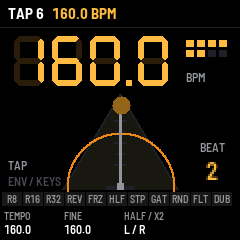
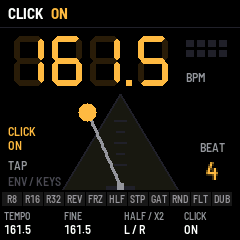
TAP K4: the metronome's click
K4 on the ENV page turns the click on (right) or off (left): a short tick on
every beat while playing (1.5 kHz, 2.4 kHz on the bar's first, ~12 ms),
sample-placed from the engine's step events, dry after the FX chain on both
sides. Kept with SAVE in a spare settings byte (older saves: off). The page
shows CLICK ON / OFF; scenario tap.txt hears it on and off.

Claude-Session: https://claude.ai/code/session_01YWuRNut7ZhYpQRsULF21Ph

diff --git a/app/site/controlmap.html b/app/site/controlmap.html
@@ -194,7 +194,7 @@
       { n: "GROOVE", k: ["SWING", "DRUMS ROUTE", "", ""], strip: "SWING · THE DRUMS' ROUTE", note: "" } ],
       algo: "Break (next bar)", brk: true, presets: "Pattern P1–P16", keys: "slices", notes: [] },
     { id: "env", btn: "ENV", name: "TAP TEMPO", sub: "The whole screen", again: "a tap", subs: [
-      { n: "TAP TEMPO", k: ["TEMPO", "FINE", "HALF / X2", ""], strip: "LED BPM · A METRONOME SWINGING IN TIME · TAPS", note: "the whole screen: no waveform, no tabs" } ],
+      { n: "TAP TEMPO", k: ["TEMPO", "FINE", "HALF / X2", "CLICK"], strip: "LED BPM · A METRONOME SWINGING IN TIME · TAPS", note: "the whole screen: no waveform, no tabs" } ],
       algo: "Break (next bar)", brk: true, presets: "Pattern P1–P16", keys: "taps",
       notes: [["ENV again · any white key", "A tap; the mean of the last eight"], ["K3", "Left halves, right doubles"]] },
     { id: "seq", btn: "SEQ", name: "SEQUENCER", sub: "16 patterns, all the steps", again: "next lane (5)", subs: [

diff --git a/app/app.c b/app/app.c
@@ -51,7 +51,9 @@ typedef struct {
     uint8_t bta_on;                      /* Bluetooth audio out (GLOBAL, third part): on at power-on, the last device
                                           * connected again */
     uint8_t bta_codec;                   /* its SBC coding: 0 joint stereo (fm1-base's), 1 plain stereo */
-    uint8_t rsv[2];
+    uint8_t click;                       /* the metronome's click (TAP K4): 1 on each beat while playing (was a spare
+                                          * byte: older saves have it off) */
+    uint8_t rsv;
     brk_padset_t pads;                   /* the pads' own settings (K1-K4 while a pad is held) */
     brk_keyset_t keys[BRK_KEYS];         /* each white key's loop: length, pitch, start, mode (K1-K4 while held) */
     brk_slicefx_t slx[BRK_KEYS];         /* each slice's own effect and level (a key held, FX: its other layer) */
@@ -231,6 +233,10 @@ static volatile float meter_l, meter_r;  /* the output's peaks as it leaves (aft
                                           * ~20 dB a second: the render writes, the header's meter reads */
 #define LR_TEST_LEN (4u * BRK_SR)
 static volatile uint32_t lr_test;        /* the left / right test (BT AUDIO K3 while streaming): samples left of it */
+static uint16_t click_at[4];             /* the render: this block's metronome clicks (their samples, the bar's first) */
+static uint8_t click_hi[4];
+static uint32_t nclick;
+static float click_env, click_ph, click_inc;
 
 static void wave_build(const brk_break_t *b)
 {
@@ -527,7 +533,12 @@ void app_render(int32_t *lr, uint32_t n, uint32_t master_q12)
             uint8_t idx[8], who[8];
             uint32_t k, ne = brk_step_events(off, idx, 8u), nk = 0u, np = 0u;
             uint32_t lk = lane_now[LANE_KICK], ls = lane_now[LANE_SNARE], lh = lane_now[LANE_HAT];
+            nclick = 0u;
             for (k = 0; k < ne; k++) {
+                if (set.click && !(idx[k] & 3u) && nclick < 4u) {   /* the metronome: each beat, the bar's first higher */
+                    click_at[nclick] = off[k];
+                    click_hi[nclick++] = idx[k] == 0u;
+                }
                 uint32_t w = (ls >> idx[k] & 1u) << PV_SNARE | (lh >> idx[k] & 1u) << PV_HAT;
                 if (lk >> idx[k] & 1u)
                     ka[nk++] = off[k];
@@ -546,6 +557,27 @@ void app_render(int32_t *lr, uint32_t n, uint32_t master_q12)
         brk_status(&st);
         /* the break through the DJ filter, the drums joining it into the chain (or around it) */
         brk_fx_process(mono, set.drums_chain ? kick : 0, echo, verb, set.drums_chain ? 0 : kick, l, r, m, st.pads);
+        if (nclick || click_env > 1e-3f) {   /* the metronome's click: dry, over everything, both sides */
+            uint32_t j = 0u;
+            for (i = 0; i < m; i++) {
+                float x;
+                if (j < nclick && click_at[j] <= i) {
+                    click_env = 1.0f;
+                    click_ph = 0.0f;
+                    click_inc = (click_hi[j] ? 2400.0f : 1500.0f) / (float)BRK_SR;
+                    j++;
+                }
+                x = 0.5f * click_env * brk_sin_turns(click_ph);
+                click_ph += click_inc;
+                if (click_ph >= 1.0f)
+                    click_ph -= 1.0f;
+                click_env *= 0.9982f;    /* (~12 ms to -20 dB) */
+                l[i] += x;
+                r[i] += x;
+            }
+            if (click_env < 1e-3f)
+                click_env = 0.0f;
+        }
         if (lr_test) {                   /* the left / right test: a low beep on the left, then a high one on the
                                           * right, twice (4 s), over everything else */
             static float ph;

diff --git a/app/ui/main.c b/app/ui/main.c
@@ -23,8 +23,13 @@ static void tap_knob(int k, int32_t d)   /* TAP: K1 the tempo, K2 finer, K3 half
         v += d;
     else if (k == EN_K3)
         v = d > 0 ? v * 2 : v / 2;
-    else
+    else {                               /* K4: the metronome's click, right on, left off */
+        set.click = d > 0 ? 1u : 0u;
+        changed();
+        app_say("CLICK", set.click ? "ON" : "OFF");
+        ui.redraw |= RG_BLOCKS;
         return;
+    }
     set.tempo_x10 = (uint16_t)clamp(v, 400, 3000);
     changed();
     tenths_text(set.tempo_x10, t);
@@ -510,6 +515,8 @@ static void knob_value(int i, char *t)  /* the page's knob i (0..3), as shown un
             tenths_text(set.tempo_x10, t);
         else if (i == 2)
             text_cat(t, "L / R");
+        else
+            text_cat(t, set.click ? "ON" : "OFF");
         return;
     }
     if (ui.page == PG_GLOBAL) {
@@ -652,7 +659,7 @@ static void draw_foot(const brk_status_t *st)
                                               {"BREAK", "KICK", "PERC", "FX"},
                                               {"SLICE", "PITCH", "HITS", "REVERSE"},
                                               {"", "", "", ""},
-                                              {"TEMPO", "FINE", "HALF / X2", ""}};
+                                              {"TEMPO", "FINE", "HALF / X2", "CLICK"}};
     uint32_t i;
     char t[16];
     if (ui.page != PG_TAP)               /* (TAP draws those rows itself) */

diff --git a/app/ui/screen.c b/app/ui/screen.c
@@ -149,7 +149,8 @@ static void draw_tap(const brk_status_t *st, uint32_t now, int full)
 {
     static uint32_t a_sig = 0xFFFFFFFFu;
     int ext = ext_active(), flash = ui.tap_last && now - ui.tap_last < 110u;
-    uint32_t v = set.tempo_x10, sig = v | (uint32_t)flash << 16 | (uint32_t)ext << 17 | (ui.ntaps < 15u ? ui.ntaps : 15u) << 18;
+    uint32_t v = set.tempo_x10, sig = v | (uint32_t)flash << 16 | (uint32_t)ext << 17 | (ui.ntaps < 15u ? ui.ntaps : 15u) << 18 |
+                                      (uint32_t)set.click << 22;
     uint32_t band;
     float beats, sw, fr;
     int32_t beat, px, py, bx, by, i;
@@ -207,6 +208,8 @@ static void draw_tap(const brk_status_t *st, uint32_t now, int full)
             }
             cv_rect(px - 14, py, 29, 4, C_LINE);                /* the pivot */
             cv_rect(px - 3, py - 3, 7, 7, C_GRAY);
+            cv_text(8, 124, &FONT_XS, "CLICK", set.click ? C_HI : C_DIM);   /* (K4) */
+            cv_text(8, 138, &FONT_XS, set.click ? "ON" : "OFF", set.click ? C_HI : C_DIM);
             cv_text(8, 158, &FONT_XS, "TAP", C_GRAY);
             cv_text(8, 174, &FONT_XS, ext ? "EXT CLOCK" : "ENV / KEYS", C_DIM);
             if (st->playing && !ext) {   /* the beat at the right: 1 (white) .. 4 */

diff --git a/docs/PRD.md b/docs/PRD.md
@@ -146,7 +146,7 @@ Based on the behaviour of BB Gen / X0X's break part and ABG's "randomizing algor
 | A-35 | **REVERSE as a gate:** reverse playback while held (not a toggle) | P0 | |
 | A-36 | **Pitch / speed ±** on OCT−/OCT+: semitone steps; holding accelerates; both buttons reset | P0 | ±24 semitones; fine mode with SEL (±100 cents) |
 | A-37 | **Pause** (PLAY) and **reset** (HOME+PLAY) | P0 | |
-| A-38 | **Tap tempo** (2 Nov 2026 on SEL; since 3 Nov 2026 on **ENV**, a page of its own taking the whole screen: the tempo on a seven-segment LED display drawn from bevelled bars (crisp, no scaled font; unlit segments a ghost), a metronome swinging in time (~25 frames a second; its bob lit on each beat, white on the bar's first), a ripple from its pivot on each tap, the run's taps; ENV again or any white key taps, the keys flash on the beat; K1 tempo, K2 0.1, K3 half / double): the tempo from the second tap, the mean of the last eight; a 2 s pause or a tap off the pace (outside 0.7–1.4 of it) starts a new run; waits while an outside clock leads. The header shows TAP n and the tempo | P0 | *Done; scenario tap.txt: two ENV taps 500 ms apart give 120.0, six white keys at 375 ms 160.0, K3 halves and doubles* |
+| A-38 | **Tap tempo** (2 Nov 2026 on SEL; since 3 Nov 2026 on **ENV**, a page of its own taking the whole screen: the tempo on a seven-segment LED display drawn from bevelled bars (crisp, no scaled font; unlit segments a ghost), a metronome swinging in time (~25 frames a second; its bob lit on each beat, white on the bar's first), a ripple from its pivot on each tap, the run's taps; ENV again or any white key taps, the keys flash on the beat; K1 tempo, K2 0.1, K3 half / double, K4 the metronome's click: a 1.5 kHz tick on each beat while playing, 2.4 kHz on the bar's first, ~12 ms, dry after the chain, in a spare settings byte): the tempo from the second tap, the mean of the last eight; a 2 s pause or a tap off the pace (outside 0.7–1.4 of it) starts a new run; waits while an outside clock leads. The header shows TAP n and the tempo | P0 | *Done; scenario tap.txt: two ENV taps 500 ms apart give 120.0, six white keys at 375 ms 160.0, K3 halves and doubles* |
 
 ### 4.5 DSP effects
 

diff --git a/app/docs/MANUAL.md b/app/docs/MANUAL.md
@@ -87,7 +87,9 @@ bob lights on each beat, white on the bar's first; BEAT counts 1–4 while playi
 from the second tap and settles as you go on (the average of the last eight taps); each tap flashes the display and
 sends a ripple out from the metronome.
 Stop for 2 seconds to start a new count; a tap far off the pace starts a new count from the tap before it. **K1** sets
-the tempo a BPM at a time, **K2** a tenth, **K3** halves it (left) or doubles it (right). Following an outside clock,
+the tempo a BPM at a time, **K2** a tenth, **K3** halves it (left) or doubles it (right), **K4** turns the
+metronome's **CLICK** on (right) or off (left): a short tick on every beat while playing, higher on the bar's first,
+dry over everything (not through the effects), kept with SAVE. Following an outside clock,
 it says EXT CLOCK and waits.
 
 ![TAP TEMPO: 160.0 BPM on the LED display, six taps, the metronome on the second beat, a tap's ripple](img/screen-tap.png "TAP TEMPO")
@@ -394,7 +396,7 @@ break alone: sweep it down and the drums stay full on top. The FLT pad throws it
 | GLO (global) | Clock in | Clock out | Bluetooth | MIDI to |
 | GLO again (pitch, snap) | Keep length / speed | Grain | Snap | Reset all (twice) |
 | GLO a third time (BT audio) | On / off | Device | Scan | Connect / hang up |
-| ENV (tap tempo; ENV again or a white key: a tap) | Tempo | Fine (0.1) | Half / double | |
+| ENV (tap tempo; ENV again or a white key: a tap) | Tempo | Fine (0.1) | Half / double | Click on / off |
 | EDIT (kick; ALGORITHM its part) | see §8: MIX, SUB … CLICK FX, MACRO, OUT | | | |
 | EDIT again (snare, then hat) | Level · Snap / cut | Tune · Drive | Decay | Tone |
 

diff --git a/README.md b/README.md
@@ -32,7 +32,7 @@ on the device. The looper and song mode are next: see the [PRD](docs/PRD.md) for
 | Black keys 1–11 | Pads, while held: ROLL 1/8 · 1/16 · 1/32 · REVERSE · FREEZE · HALF · TAPE STOP · GATE · RANDOM · FILTER THROW · DUB (a throw into the delay). Each shows its own animation while held, and **K1–K4 tune it** (rate, decay, length, speed, feedback…). The rolls have a LEVEL for quiet ghost-note rolls, and their DECAY fades down or swells up |
 | PLAY | Play / stop · HOME + PLAY: back to bar 1 |
 | SELECT | Tempo (SEL held: 0.1 BPM) |
-| ENV | **TAP TEMPO**, the whole screen: tap ENV again or any white key in time (from the second tap, the average of the last eight); big digits, the bar's beats; K1 tempo · K2 fine · K3 half / double |
+| ENV | **TAP TEMPO**, the whole screen: tap ENV again or any white key in time (from the second tap, the average of the last eight); big digits, the bar's beats; K1 tempo · K2 fine · K3 half / double · K4 the metronome's click on / off |
 | SEL (the shift) | **SEL + ALGORITHM** the break and **SEL + PRESETS** the pattern, on every page · **SEL + SAVE** undo the last pattern wipe (again: redo) · **SEL** pressed alone: the strip lists every combination |
 | OCT− / OCT+ | Pitch in semitones (hold: faster) · both: 0 |
 | ALGORITHM | The next break, its name at once, the break itself at the next bar: AMEN, DRUMMER, THE WORM, THINK, COLD SWEAT, HOT PANTS, APACHE, SPORT |
